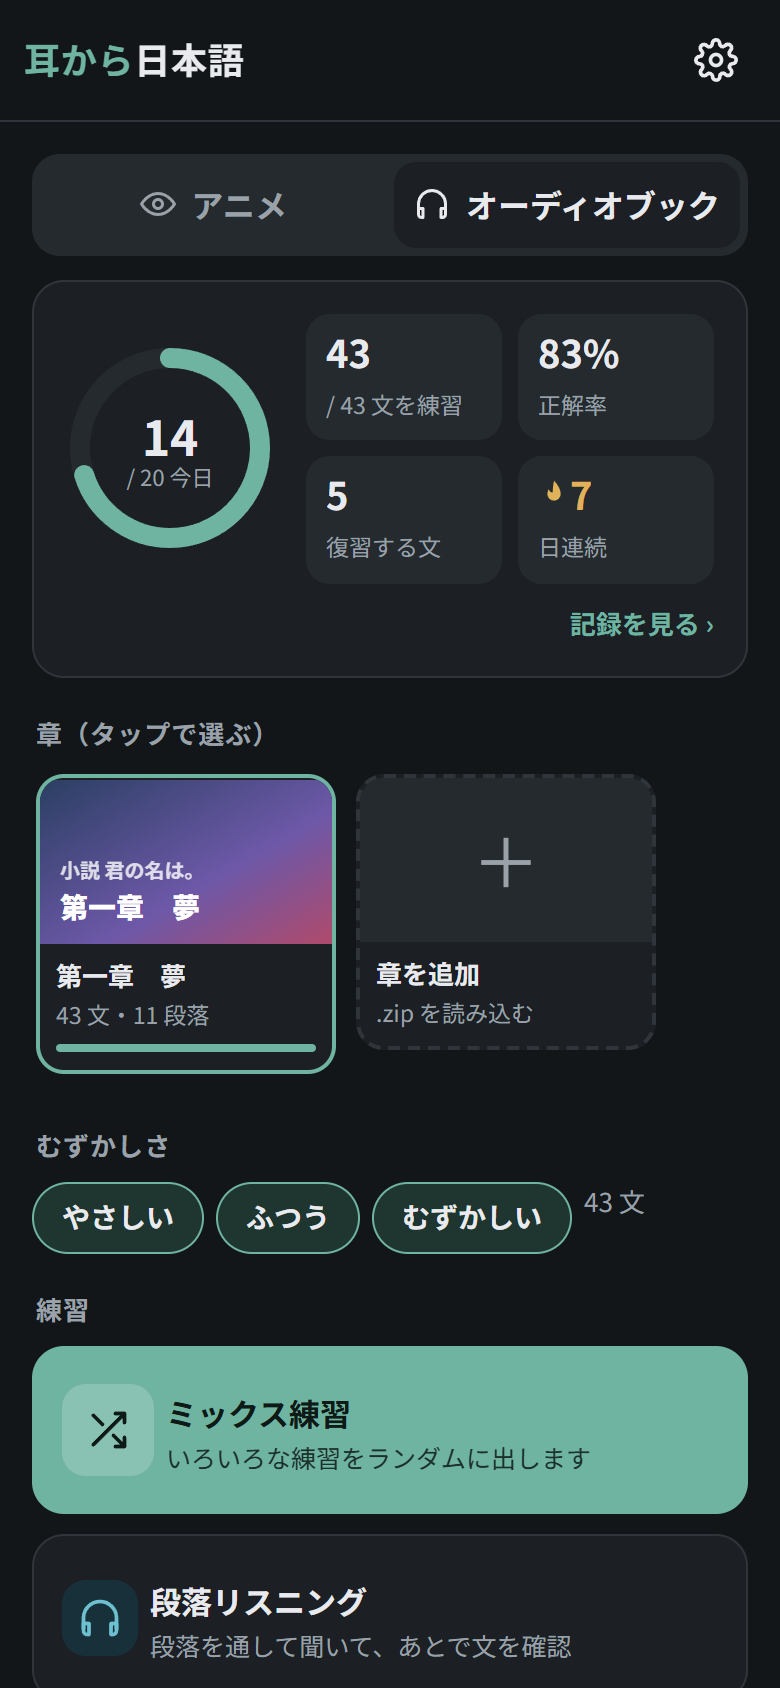
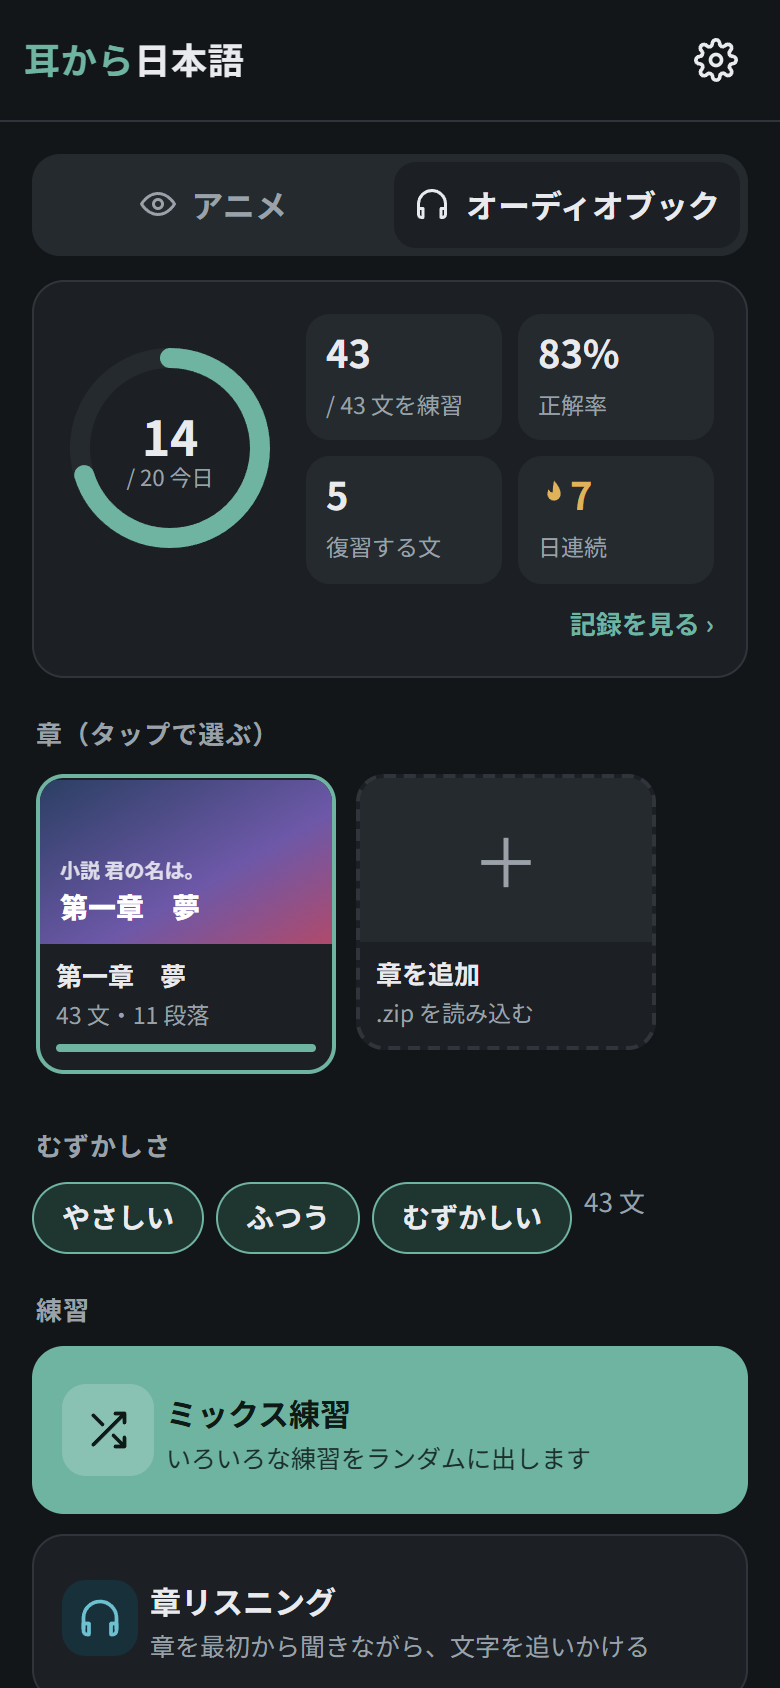
Audiobooks: chapter listening with live transcript
The 段落リスニング button on the audiobook tab now opens 章リスニング: the whole
chapter plays sentence by sentence while the transcript follows along, the
current sentence fills in word by word, upcoming sentences stay blurred,
and each sentence (or the one playing) can be sent to Anki. Remembers the
position per chapter and continues into the next imported chapter.
Paragraph listening stays available from the reader's 練習 buttons.

Changed region(s): [[0.1846, 0.9242, 0.5538, 0.9858], [0.5846, 0.955, 0.8308, 0.9858]]

diff --git a/app/app.js b/app/app.js
@@ -564,10 +564,10 @@ function viewHome() {
   w.append(h('div', { class: 'section-title' }, '練習'));
   const m = h('div', { class: 'modes' });
   const tango = ['tango', '単語カード', `まだ覚えていない言葉を復習（今日 ${wordsDue()} 語）`, ICON.cards, 8];
-  const modes = book ? [MODES[0], ['parrafo', '段落リスニング', '段落を通して聞いて、あとで文を確認', ICON.headphones, 6], ...MODES.slice(1), tango] : [...MODES, tango];
+  const modes = book ? [MODES[0], ['listen', '章リスニング', '章を最初から聞きながら、文字を追いかける', ICON.headphones, 6], ...MODES.slice(1), tango] : [...MODES, tango];
   for (const [id, t, d, ic, c] of modes) {
-    const wide = id === 'mezcla' || id === 'parrafo' || id === 'tango';
-    const el = h('button', { class: 'mode' + (id === 'mezcla' ? ' primary' : wide ? ' wide' : ''), style: `--c:var(--t${c});--cs:var(--t${c}s)`, onclick: () => id === 'parrafo' ? go('passage') : id === 'tango' ? go('wordquiz') : startRound(id) },
+    const wide = id === 'mezcla' || id === 'listen' || id === 'tango';
+    const el = h('button', { class: 'mode' + (id === 'mezcla' ? ' primary' : wide ? ' wide' : ''), style: `--c:var(--t${c});--cs:var(--t${c}s)`, onclick: () => id === 'listen' ? go('listen') : id === 'tango' ? go('wordquiz') : startRound(id) },
       h('span', { class: 'ic', html: ic }), h('span', { class: 'tx' }, h('span', { class: 't' }, t), h('span', { class: 'd' }, d)));
     if (!wide) { el.append(...el.querySelector('.tx').childNodes); el.querySelector('.tx').remove(); }
     m.append(el);
@@ -1359,7 +1359,7 @@ function seqPlayer({ onLine, onEnd } = {}) {
     load(lines) { list = lines; idx = -1; },
     play(i = 0) { playAt(i); },
     stop() { token++; playing = false; a.pause(); },
-    get playing() { return playing; }, get idx() { return idx; }, get list() { return list; },
+    get playing() { return playing; }, get idx() { return idx; }, get list() { return list; }, get audio() { return a; },
   };
   CLEANUP.push(() => api.stop());
   return api;
@@ -1412,6 +1412,113 @@ function viewBookReader(epId) {
   playBtn.onclick = () => { if (sp.playing) { sp.stop(); updBar(); } else sp.play(sp.idx >= 0 ? sp.idx : 0); };
   updBar();
   setBar(w, prevBtn, playBtn, nextBtn);
+}
+
+// 章リスニング：章を最初から最後まで聞きながら、文字を追いかける（ライブ字幕のように）
+const bookChapters = ep => secEpIds('book').filter(id => S.eps[id].book === ep.book).sort((a, b) => (S.eps[a].chn || 0) - (S.eps[b].chn || 0));
+function viewListen(arg) {
+  const eps = secEpIds('book');
+  if (!eps.length) { toast('オーディオブックの章がありません。'); return go('home'); }
+  const pos = S.settings.listenPos || (S.settings.listenPos = {});
+  const epId = arg && eps.includes(arg.ep) ? arg.ep : eps.includes(S.settings.listenEp) ? S.settings.listenEp : eps[0];
+  S.settings.listenEp = epId; saveSettings();
+  const ep = S.eps[epId], lines = ep.lines, total = lines[lines.length - 1].en;
+  const root = app(); root.innerHTML = '';
+  const ankiSlot = h('div'); // 今の文を Anki に（再生中の文に合わせて入れかわる）
+  root.append(topbar('章リスニング', { back: true, right: ankiSlot }));
+  const w = h('div', { class: 'wrap has-bar listen' }); root.append(w);
+
+  // 上：章の選択・速さ・先の文を見せるか・章の中の位置
+  const sel = h('select', { onchange: () => go('listen', { ep: sel.value }) }, eps.map(e => h('option', { value: e, selected: e === epId }, `${S.eps[e].book ? S.eps[e].book + '・' : ''}${epLabel(e)}`)));
+  const rateBtn = h('button', { class: 'chip' + (S.settings.rate < 1 ? ' on' : ''), onclick: () => { S.settings.rate = S.settings.rate < 1 ? 1 : 0.75; rateBtn.classList.toggle('on', S.settings.rate < 1); sp.audio.playbackRate = S.settings.rate; saveSettings(); } }, 'ゆっくり');
+  const aheadBtn = h('button', { class: 'chip' + (S.settings.listenAhead ? ' on' : ''), onclick: () => { S.settings.listenAhead = !S.settings.listenAhead; aheadBtn.classList.toggle('on', S.settings.listenAhead); w.classList.toggle('ahead', S.settings.listenAhead); saveSettings(); } }, '先の文も表示');
+  w.classList.toggle('ahead', !!S.settings.listenAhead);
+  const timeTxt = h('span', { class: 'small muted', style: 'font-variant-numeric:tabular-nums' });
+  const bar = h('i');
+  const seek = h('div', { class: 'lv-seek', title: 'タップでその位置へ' }, bar);
+  seek.addEventListener('click', e => { const r = seek.getBoundingClientRect(), t = (e.clientX - r.left) / r.width * total; let k = lines.findIndex(l => l.en >= t); playFrom(k < 0 ? lines.length - 1 : k); });
+  w.append(h('div', { class: 'card lv-head' },
+    h('div', { class: 'row', style: 'gap:8px;flex-wrap:wrap' }, sel, rateBtn, aheadBtn),
+    h('div', { class: 'row', style: 'gap:10px;align-items:center;margin-top:10px' }, seek, timeTxt)));
+
+  // 本文：段落ごとに文を並べる
+  const rows = [];
+  const passages = ep.passages && ep.passages.length ? ep.passages : [[0, lines.length - 1]];
+  const text = h('div', { class: 'lv-text' });
+  for (const [a, b] of passages) {
+    const par = h('div', { class: 'lv-par' });
+    for (let i = a; i <= b; i++) {
+      const l = lines[i];
+      const r = h('div', { class: 'lv-s future' + (l.dq ? ' dq' : '') }, h('div', { class: 'lv-txt' }, sentenceEl(l)), ankiBtn(l, true));
+      r.addEventListener('click', e => { if (e.target.closest('.w') && !r.classList.contains('future')) return; playFrom(i); });
+      rows[i] = r; par.append(r);
+    }
+    text.append(par);
+  }
+  w.append(h('div', { class: 'card', style: 'padding:14px 12px' }, text));
+  const endBox = h('div');
+  w.append(endBox);
+
+  // 再生
+  let cur = -1, userScroll = 0, weights = [];
+  const fmt = ms => { const s = Math.max(0, Math.floor(ms / 1000)); return `${Math.floor(s / 60)}:${String(s % 60).padStart(2, '0')}`; };
+  const setCur = i => {
+    cur = i;
+    rows.forEach((r, k) => { r.classList.toggle('past', k < i); r.classList.toggle('cur', k === i); r.classList.toggle('future', k > i); if (k !== i) r.querySelectorAll('.said').forEach(x => x.classList.remove('said')); });
+    const ws = [...rows[i].querySelectorAll('.w')], toks = lines[i].tk.filter(t => t.p !== 'sp');
+    let acc = 0; const tot = toks.reduce((n, t) => n + t.s.length, 0) || 1;
+    weights = ws.map((el, k) => { acc += (toks[k] ? toks[k].s.length : 1); return [el, acc / tot]; });
+    ankiSlot.replaceChildren(ankiBtn(lines[i], 'top'));
+    if (Date.now() - userScroll > 4000) rows[i].scrollIntoView({ behavior: 'smooth', block: 'center' });
+    pos[epId] = i; saveSettings();
+  };
+  const sp = seqPlayer({
+    onLine: (l, i) => { setCur(i); updBar(); },
+    onEnd: () => { updBar(); finished(); },
+  });
+  sp.load(lines);
+  const tick = () => {
+    if (cur < 0) return;
+    const l = lines[cur], abs = (l.cs || 0) + sp.audio.currentTime * 1000;
+    const frac = sp.playing ? Math.min(1, Math.max(0, (abs - l.st) / Math.max(1, l.en - l.st))) : null;
+    if (frac != null) for (const [el, f] of weights) el.classList.toggle('said', f - 0.5 / (weights.length || 1) <= frac);
+    const now = sp.playing ? Math.min(total, abs) : l.st;
+    bar.style.width = `${100 * now / total}%`; timeTxt.textContent = `${fmt(now)} / ${fmt(total)}`;
+  };
+  const timer = setInterval(tick, 80); // requestAnimationFrame se para si la pestaña no se ve
+  CLEANUP.push(() => clearInterval(timer));
+  const markScroll = () => { userScroll = Date.now(); };
+  addEventListener('wheel', markScroll, { passive: true }); addEventListener('touchmove', markScroll, { passive: true });
+  CLEANUP.push(() => { removeEventListener('wheel', markScroll); removeEventListener('touchmove', markScroll); });
+  const playFrom = i => { endBox.innerHTML = ''; userScroll = 0; sp.load(lines); sp.play(i); };
+
+  // 章の終わり：次の章があれば続けて再生
+  const chs = bookChapters(ep), next = chs[chs.indexOf(epId) + 1];
+  const finished = () => {
+    rows.forEach(r => { r.classList.remove('cur', 'future'); r.classList.add('past'); r.querySelectorAll('.said').forEach(x => x.classList.remove('said')); });
+    pos[epId] = 0; saveSettings();
+    endBox.innerHTML = '';
+    endBox.append(h('div', { class: 'card', style: 'text-align:center' },
+      h('div', { style: 'font-weight:800;font-size:18px' }, 'この章はおしまい！'),
+      h('div', { class: 'small muted', style: 'margin:4px 0 12px' }, next ? `5秒後に次の章「${epLabel(next)}」へ` : 'おつかれさまでした。'),
+      next ? h('button', { class: 'btn primary', onclick: () => go('listen', { ep: next, auto: true }) }, '次の章へ') : null));
+    endBox.scrollIntoView({ behavior: 'smooth', block: 'center' });
+    if (next) { const t = setTimeout(() => go('listen', { ep: next, auto: true }), 5000); CLEANUP.push(() => clearTimeout(t)); }
+  };
+
+  // 下のバー
+  const playBtn = h('button', { class: 'btn primary' });
+  const prevBtn = h('button', { class: 'btn', style: 'flex:0 0 56px', 'aria-label': '前の文', html: '<svg viewBox="0 0 24 24" fill="currentColor"><path d="M6 6h2v12H6zM9.5 12l8.5 6V6z"/></svg>', onclick: () => playFrom(Math.max(0, cur - 1)) });
+  const nextBtn = h('button', { class: 'btn', style: 'flex:0 0 56px', 'aria-label': '次の文', html: '<svg viewBox="0 0 24 24" fill="currentColor"><path d="M16 6h2v12h-2zM6 18l8.5-6L6 6z"/></svg>', onclick: () => playFrom(Math.min(lines.length - 1, cur + 1)) });
+  const updBar = () => { playBtn.innerHTML = sp.playing ? ICON.stop + '<span>一時停止</span>' : ICON.headphones + `<span>${cur > 0 ? 'つづきから聞く' : '最初から聞く'}</span>`; };
+  playBtn.onclick = () => { if (sp.playing) { sp.stop(); updBar(); } else playFrom(cur >= 0 ? cur : 0); };
+  setBar(w, prevBtn, playBtn, nextBtn);
+
+  // 前回の続きの位置を表示（自動再生は次の章に進んだときだけ）
+  const start = Math.min(pos[epId] || 0, lines.length - 1);
+  if (start > 0 || (arg && arg.auto)) setCur(start);
+  updBar();
+  if (arg && arg.auto) playFrom(start);
 }
 
 // 段落リスニング：段落を通して聞く → 文を確認 → 自己評価
@@ -1485,7 +1592,7 @@ function viewPassage(arg) {
   setBar(w, h('button', { class: 'btn primary', onclick: reveal }, '文字を見る'));
 }
 
-const VIEWS = { wordquiz: viewWordQuiz, wordsum: viewWordSummary, stats: viewStats, ankibox: viewAnkiBox, passage: viewPassage, home: viewHome, settings: viewSettings, reader: viewReader, vocab: viewVocab, summary: viewSummary, glist: viewGrammarList };
+const VIEWS = { listen: viewListen, wordquiz: viewWordQuiz, wordsum: viewWordSummary, stats: viewStats, ankibox: viewAnkiBox, passage: viewPassage, home: viewHome, settings: viewSettings, reader: viewReader, vocab: viewVocab, summary: viewSummary, glist: viewGrammarList };
 
 // ================= 起動 =================
 (async () => {

diff --git a/app/app.css b/app/app.css
@@ -290,3 +290,21 @@ header.top .ankib.on{background:var(--t3s)}
 .kbar i{display:block;height:100%;background:var(--accent);border-radius:0 4px 4px 0}
 .krow .kv{font-size:13.5px;font-weight:700;text-align:right;font-variant-numeric:tabular-nums}
 .krow .kv small{font-weight:400;color:var(--muted);font-size:11px}
+
+/* 章リスニング */
+.lv-seek{flex:1;height:8px;background:var(--surface2);border-radius:4px;overflow:hidden;cursor:pointer}
+.lv-seek i{display:block;height:100%;width:0;background:var(--accent);border-radius:4px}
+.lv-par{padding:4px 0 12px;margin-bottom:10px;border-bottom:1px dashed var(--line)}
+.lv-par:last-child{border-bottom:0;margin-bottom:0}
+.lv-s{padding:6px 8px;border-radius:10px;cursor:pointer;transition:background .25s,opacity .25s}
+.lv-s{display:flex;gap:8px;align-items:flex-start}
+.lv-txt{flex:1;min-width:0}
+.lv-s .ankib{flex:none;margin-top:3px}
+.listen:not(.ahead) .lv-s.future .ankib{visibility:hidden}
+.lv-s .sentence{font-size:19px;line-height:1.75}
+.lv-s.past{opacity:.7}
+.lv-s.cur{background:var(--accent-soft)}
+.lv-s.cur .sentence{font-size:21px}
+.lv-s.cur .w{color:var(--muted);transition:color .12s}
+.lv-s.cur .w.said{color:var(--text)}
+.listen:not(.ahead) .lv-s.future .sentence{filter:blur(5px);opacity:.45;pointer-events:none;user-select:none}

diff --git a/app/sw.js b/app/sw.js
@@ -1,5 +1,5 @@
 // オフラインでも使えるように、アプリをキャッシュに保存する。
-const CACHE = 'animejp-v3';
+const CACHE = 'animejp-v4';
 const FILES = ['./', 'index.html', 'app.css', 'app.js', 'audio.js', 'anki.js', 'grammar_ja.js', 'fflate.min.js', 'sql-wasm.js', 'sql-wasm.wasm', 'manifest.webmanifest', 'icon.svg', 'icon-192.png', 'icon-512.png'];
 self.addEventListener('install', e => { e.waitUntil(caches.open(CACHE).then(c => c.addAll(FILES)).then(() => self.skipWaiting())); });
 self.addEventListener('activate', e => { e.waitUntil(caches.keys().then(ks => Promise.all(ks.filter(k => k !== CACHE).map(k => caches.delete(k)))).then(() => self.clients.claim())); });

diff --git a/README.md b/README.md
@@ -38,7 +38,7 @@ A Python script on your PC cuts every subtitle line into its own clip, analyses 
 | 📚 | **Dictionary and grammar** | Tap any word for its meaning (JMdict); 560 JLPT grammar patterns from N5 to N1 with examples. |
 | 📊 | **Progress** | Daily goal, streaks, a 30-day chart and accuracy for each drill. |
 | 🗂 | **Anki** | Turn any line into an Anki card with its video, via `.apkg` or straight into AnkiDroid. |
-| 📕 | **Audiobooks** | Japanese audiobooks become the same drills, plus paragraph listening and a paragraph-by-paragraph reader. |
+| 📕 | **Audiobooks** | Japanese audiobooks become the same drills, plus whole-chapter listening with a live transcript, paragraph listening and a reader. |
 | 💾 | **Backup** | Save and restore your progress as a small file. |
 
 ---
@@ -50,7 +50,7 @@ A Python script on your PC cuts every subtitle line into its own clip, analyses 
   - [Practice drills](#practice-drills-練習): [Mixed](#mixed-practice-ミックス練習) · [Dictation](#dictation-書き取り) · [Fill in the blank](#fill-in-the-blank-穴埋め) · [Order](#sentence-order-並べ替え) · [Listening](#listening-聞き取り) · [Grammar](#grammar-文法) · [Shadowing](#shadowing-シャドーイング) · [Word cards](#word-cards-単語カード) · [Summary](#round-summary-結果)
   - [Learning tools](#learning-tools-学ぶ): [Reader](#reader-読む) · [Furigana](#furigana) · [Word details](#word-details) · [Grammar details](#grammar-details) · [Vocabulary](#vocabulary-単語帳) · [Grammar list](#grammar-list-文法リスト)
   - [Progress](#progress-記録) · [Anki](#anki) · [Settings](#settings-設定)
-  - [Audiobooks](#audiobooks-オーディオブック): [Audiobook tab](#audiobook-tab) · [Paragraph listening](#paragraph-listening-段落リスニング) · [Chapter reader](#chapter-reader-読む)
+  - [Audiobooks](#audiobooks-オーディオブック): [Audiobook tab](#audiobook-tab) · [Chapter listening](#chapter-listening-章リスニング) · [Paragraph listening](#paragraph-listening-段落リスニング) · [Chapter reader](#chapter-reader-読む)
 - [🚀 Quick start](#-quick-start)
 - [🔧 Setup guide](#-setup-guide)
   - [1. Install the PC tools](#1-install-the-pc-tools)
@@ -283,7 +283,20 @@ Open it with the ⚙ button on the home screen.
   <img src="docs/screenshots/25-audiobook-home.png" width="260" alt="Audiobook tab">
 </p>
 
-The オーディオブック tab works like the anime one, but with audio clips cut from a narrated book. Each chapter (章) has its own card with the book title, and the script also splits every chapter into paragraphs (段落) using the narrator's pauses. All the drills work here too, plus paragraph listening. How to create the packs is explained in [Create audiobook packs](#3-create-audiobook-packs-optional).
+The オーディオブック tab works like the anime one, but with audio clips cut from a narrated book. Each chapter (章) has its own card with the book title, and the script also splits every chapter into paragraphs (段落) using the narrator's pauses. All the drills work here too; the wide button under them, **章リスニング**, plays the whole chapter with a live transcript. How to create the packs is explained in [Create audiobook packs](#3-create-audiobook-packs-optional).
+
+#### Chapter listening (章リスニング)
+
+<p align="center">
+  <img src="docs/screenshots/29-chapter-listening.png" width="260" alt="Chapter listening with live transcript">
+</p>
+
+Listen to the **whole chapter** while the transcript follows along, like live subtitles. The sentence being read is highlighted and fills in word by word as the narrator speaks; sentences already heard stay readable, and the ones still to come are blurred so you listen before you read (**先の文も表示** shows them). The page scrolls along on its own, pausing for a few seconds if you scroll yourself.
+
+- **⏮ ⏯ ⏭** go to the previous sentence, pause or resume, and go to the next sentence. Tap any sentence to jump to it, or the time bar to jump to that point of the chapter.
+- **＋ Anki** in the top-right corner always adds the sentence being read; the small ＋ next to each sentence adds that one.
+- Tap any word for its meaning. **ゆっくり** slows the audio down.
+- It remembers where you stopped in each chapter, and at the end of a chapter it moves on to the next one if you have imported it.
 
 #### Paragraph listening (段落リスニング)
 
@@ -292,7 +305,7 @@ The オーディオブック tab works like the anime one, but with audio clips 
   <img src="docs/screenshots/27-paragraph-text.png" width="260" alt="Paragraph with its text revealed">
 </p>
 
-Listen to a whole paragraph **without seeing the text**, as many times as you like; the dots show which sentence is playing. Then tap **文字を見る** to reveal it: every sentence can be replayed, sent to Anki or shadowed, and the paragraph's grammar patterns are listed underneath. Finally rate how much you understood (**分からない** / **だいたい** / **よく分かった**), which feeds the spaced repetition.
+Open it with **練習** next to any paragraph in the chapter reader. Listen to that paragraph **without seeing the text**, as many times as you like; the dots show which sentence is playing. Then tap **文字を見る** to reveal it: every sentence can be replayed, sent to Anki or shadowed, and the paragraph's grammar patterns are listed underneath. Finally rate how much you understood (**分からない** / **だいたい** / **よく分かった**), which feeds the spaced repetition.
 
 #### Chapter reader (読む)
 
